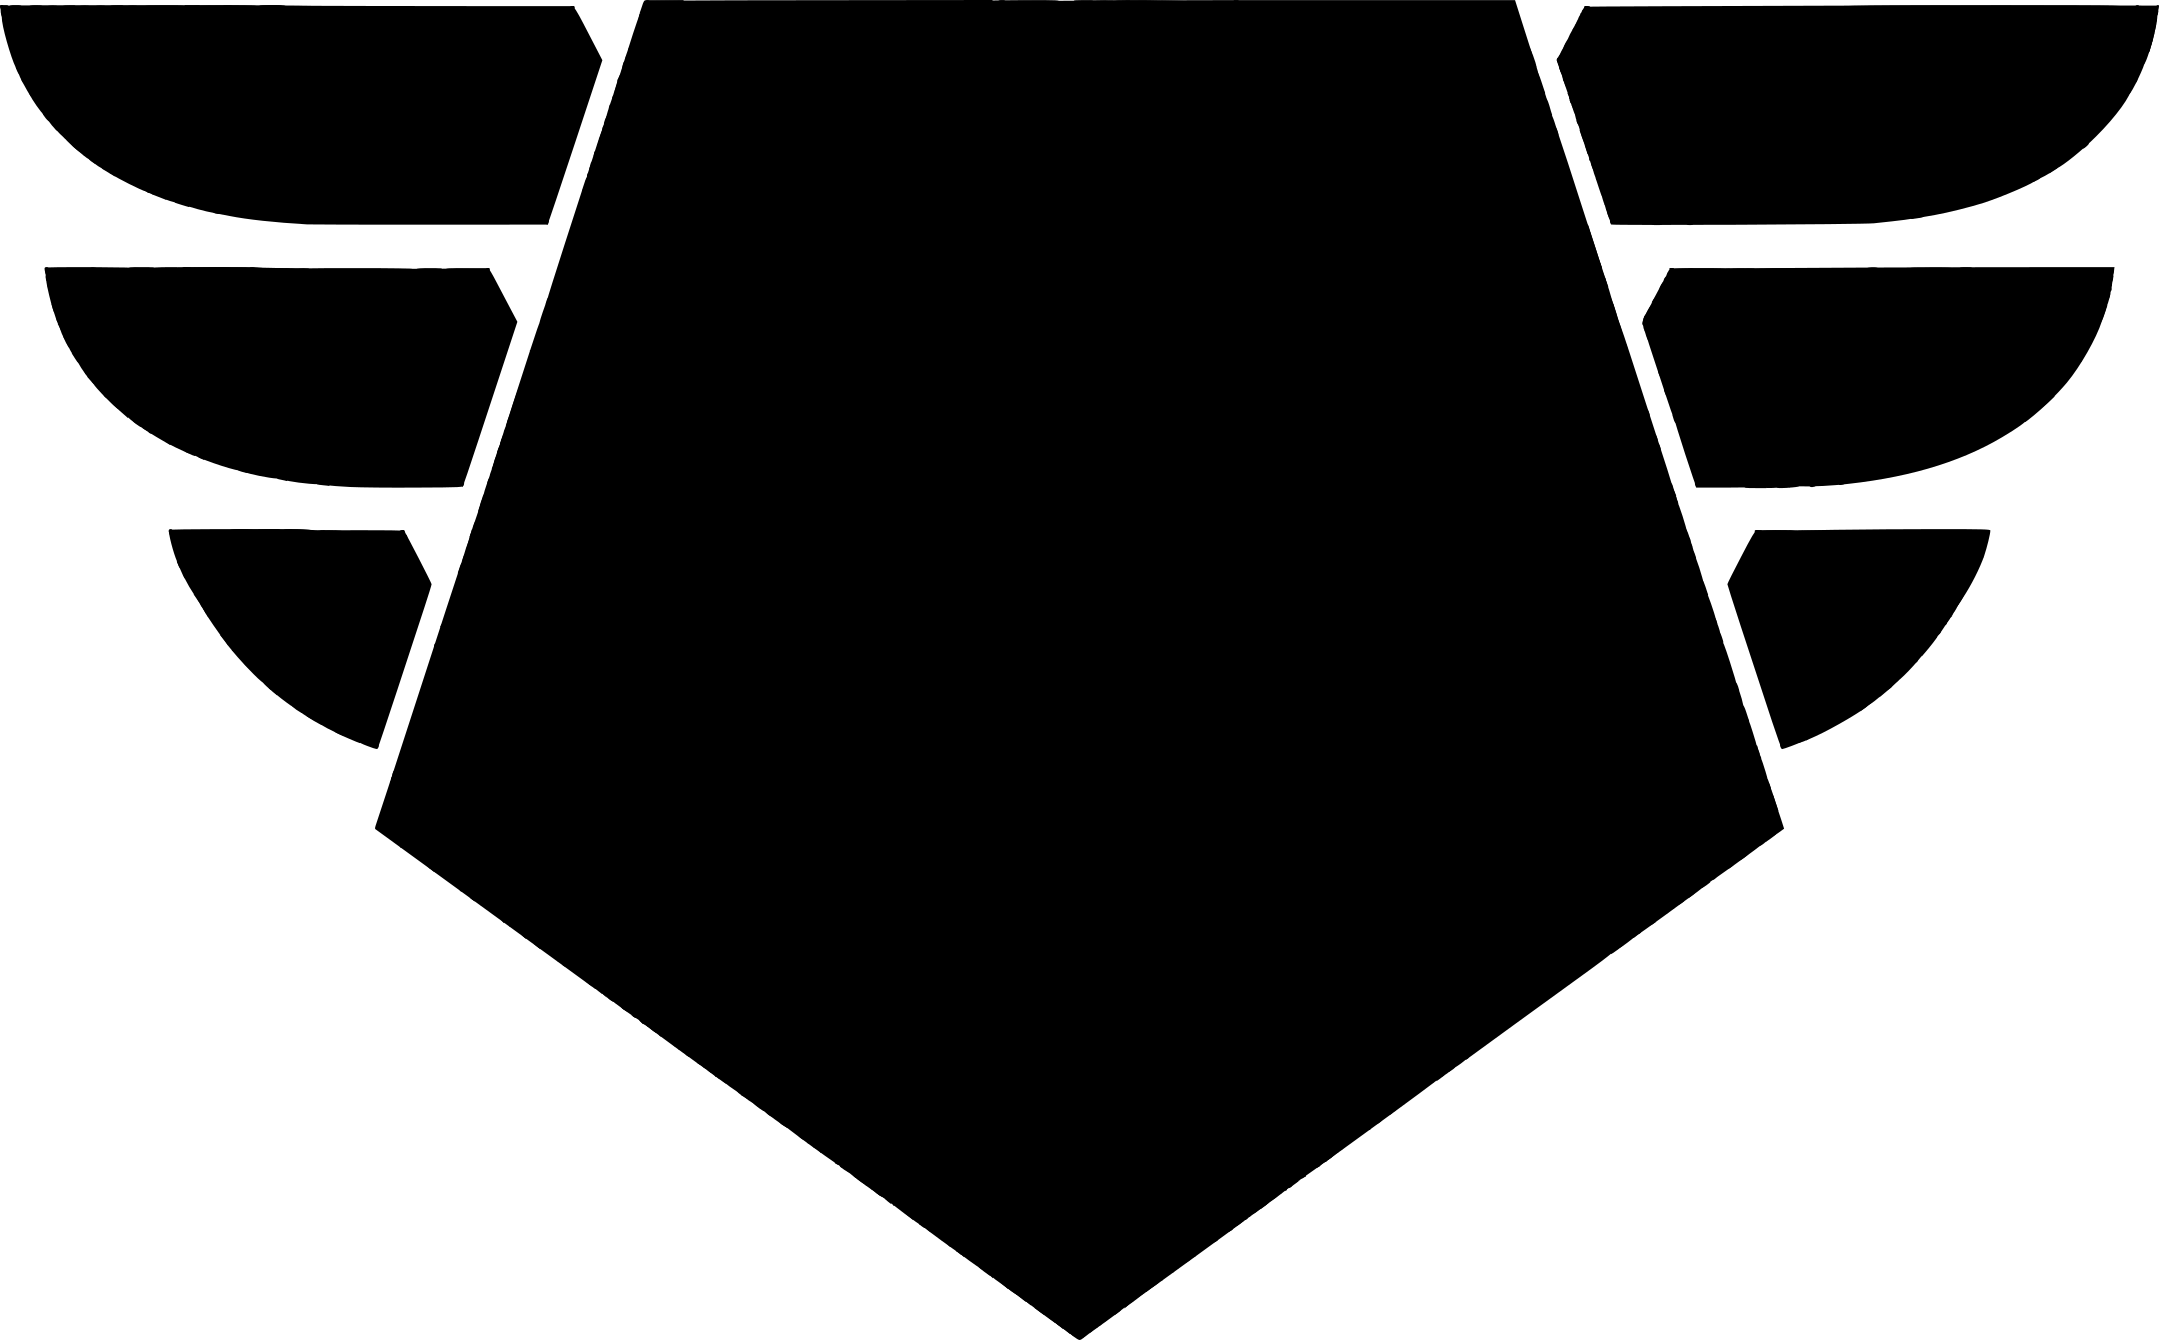
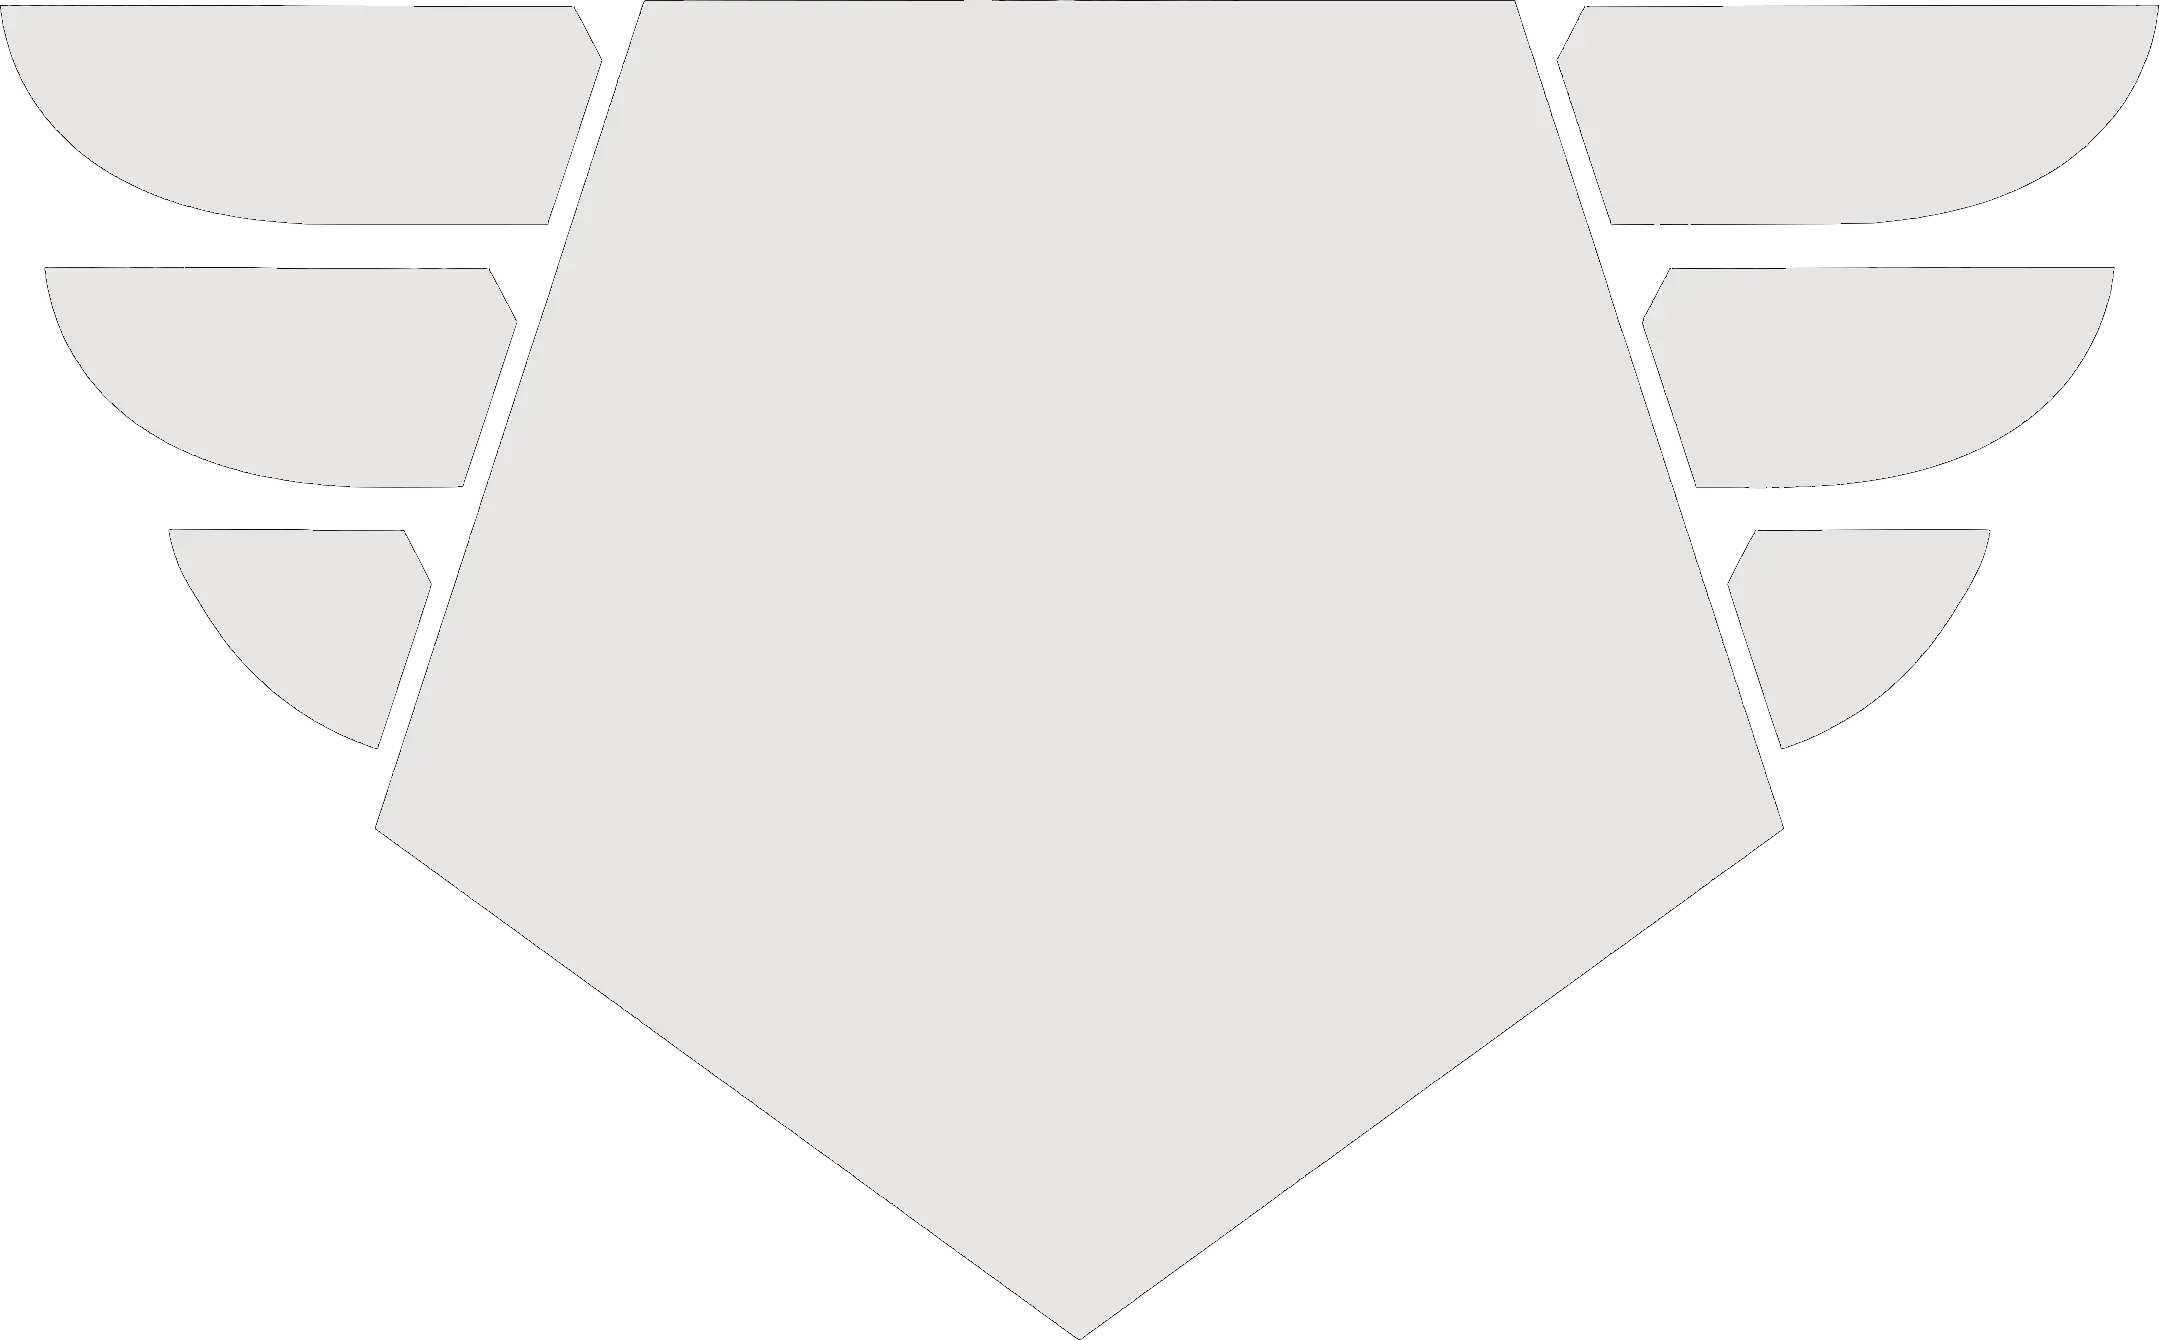
🍱Add new sigil component

diff --git a/src/lib/components/newDesign/atoms/Sigil.svelte b/src/lib/components/newDesign/atoms/Sigil.svelte
@@ -1,0 +1,15 @@
+<script lang="ts">
+	interface Props {
+		rank: 'tbd' | 'wood' | 'bronze' | 'silver' | 'gold' | 'platinum';
+	}
+
+	let { rank }: Props = $props();
+</script>
+
+<div class="flex w-full justify-center">
+	<img
+		class="w-[320px] {rank === 'tbd' ? `opacity-50 blur-[2px]` : ``}"
+		src="/sigils/{rank}.webp"
+		alt="Sigil Crest"
+	/>
+</div>

diff --git a/src/routes/new/+page.svelte b/src/routes/new/+page.svelte
@@ -1,0 +1,7 @@
+<script lang="ts">
+	import XPHud from '$lib/components/newDesign/atoms/XPHud.svelte';
+	import Sigil from '$lib/components/newDesign/atoms/Sigil.svelte';
+</script>
+
+<XPHud />
+<Sigil rank={'gold'} />
